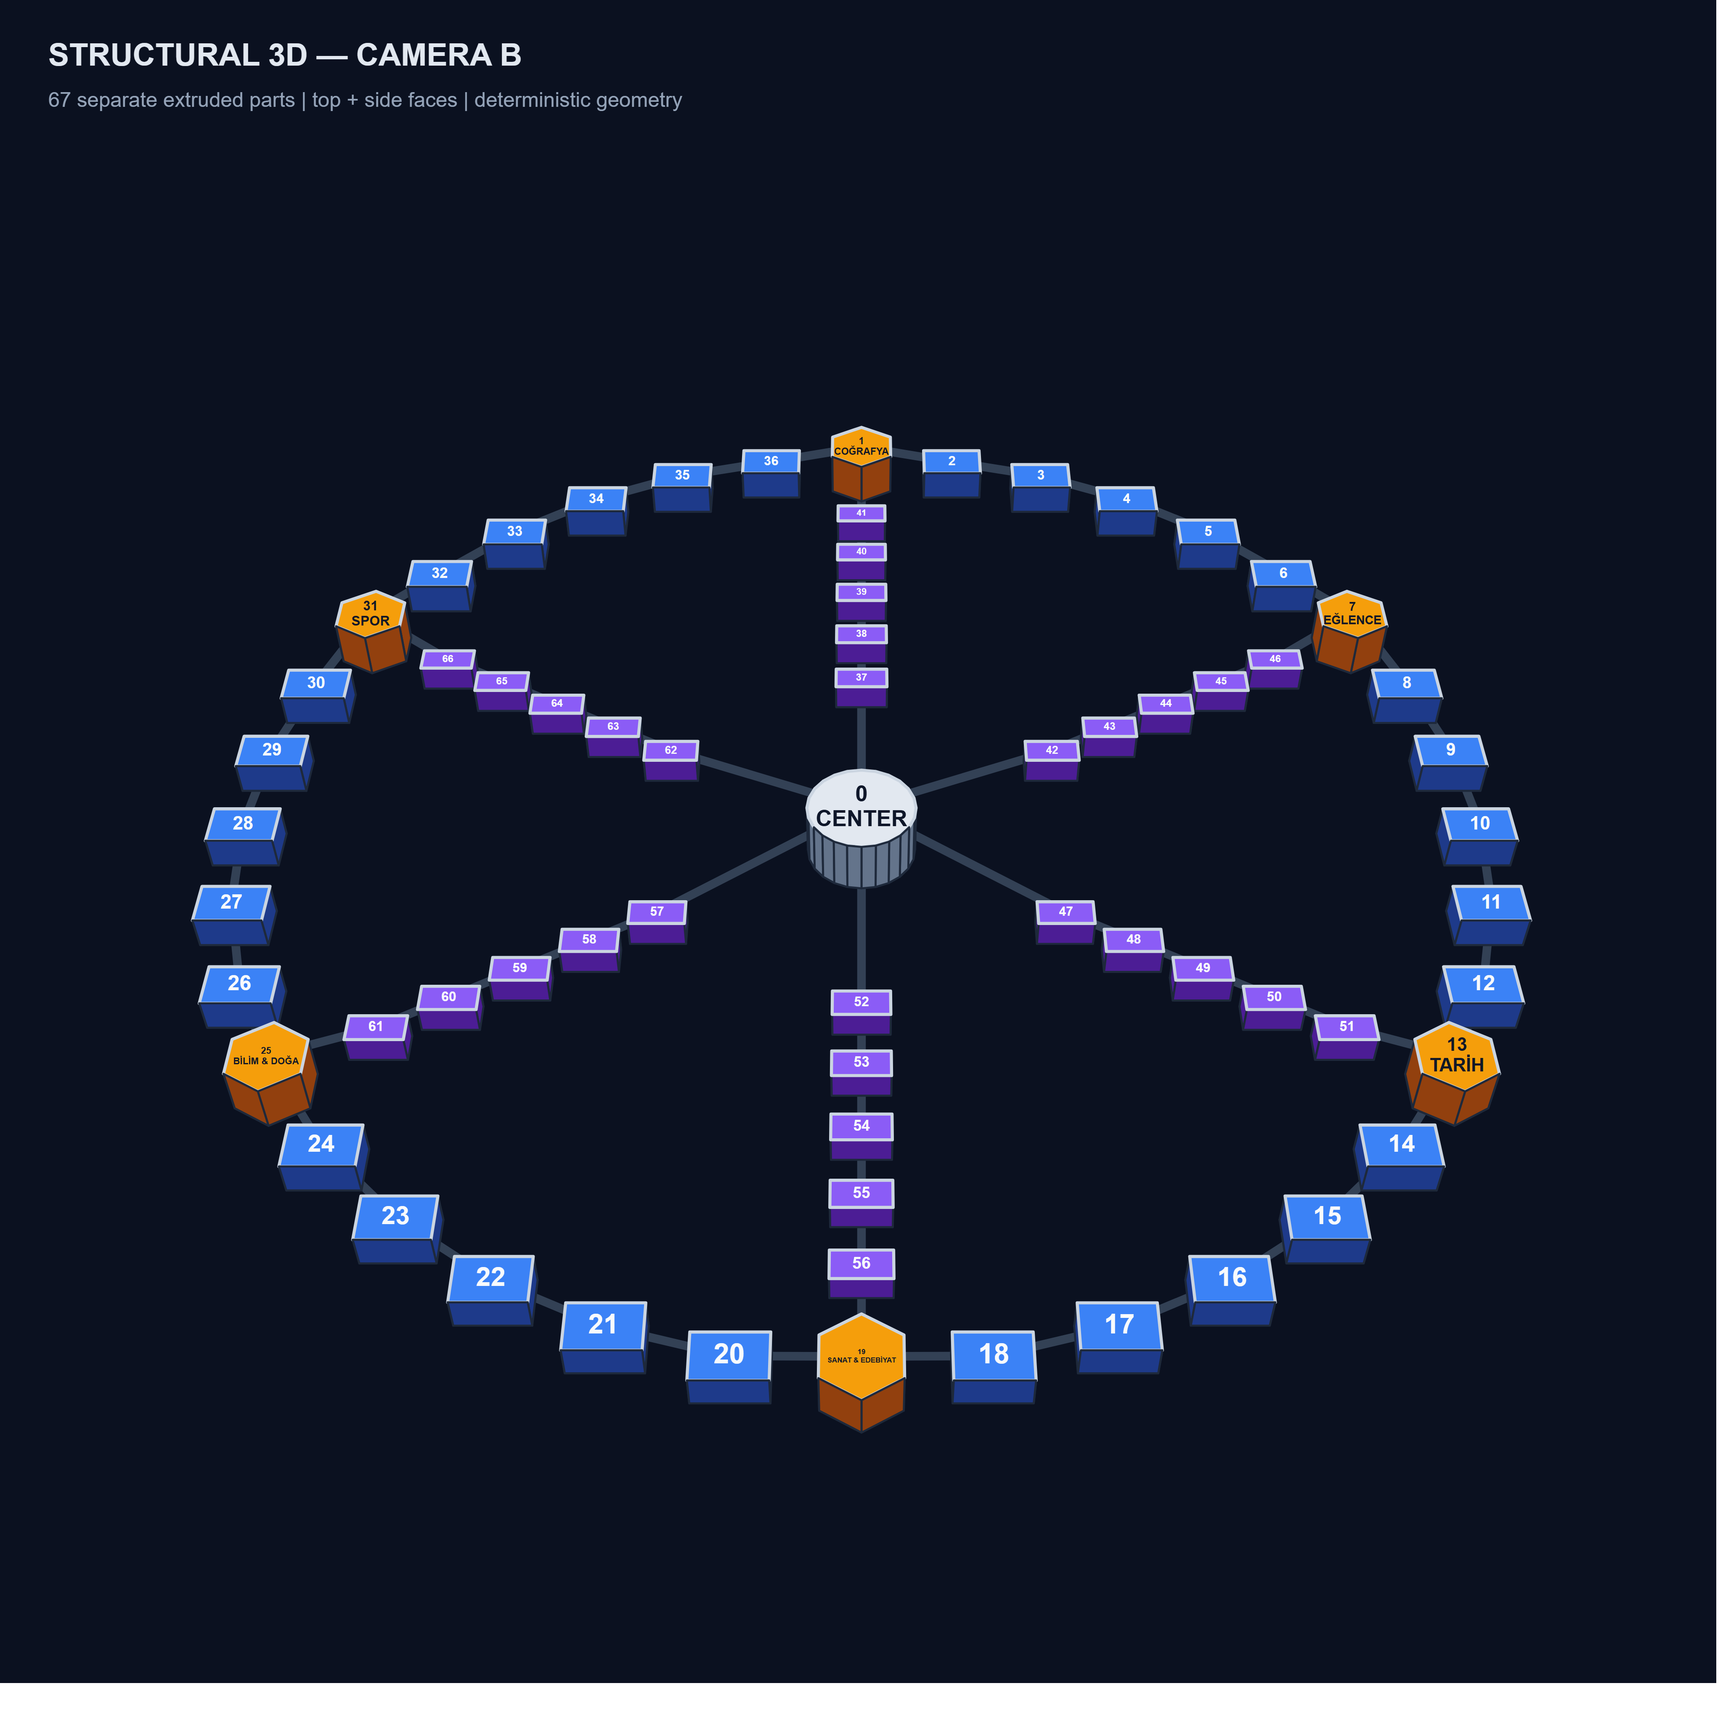
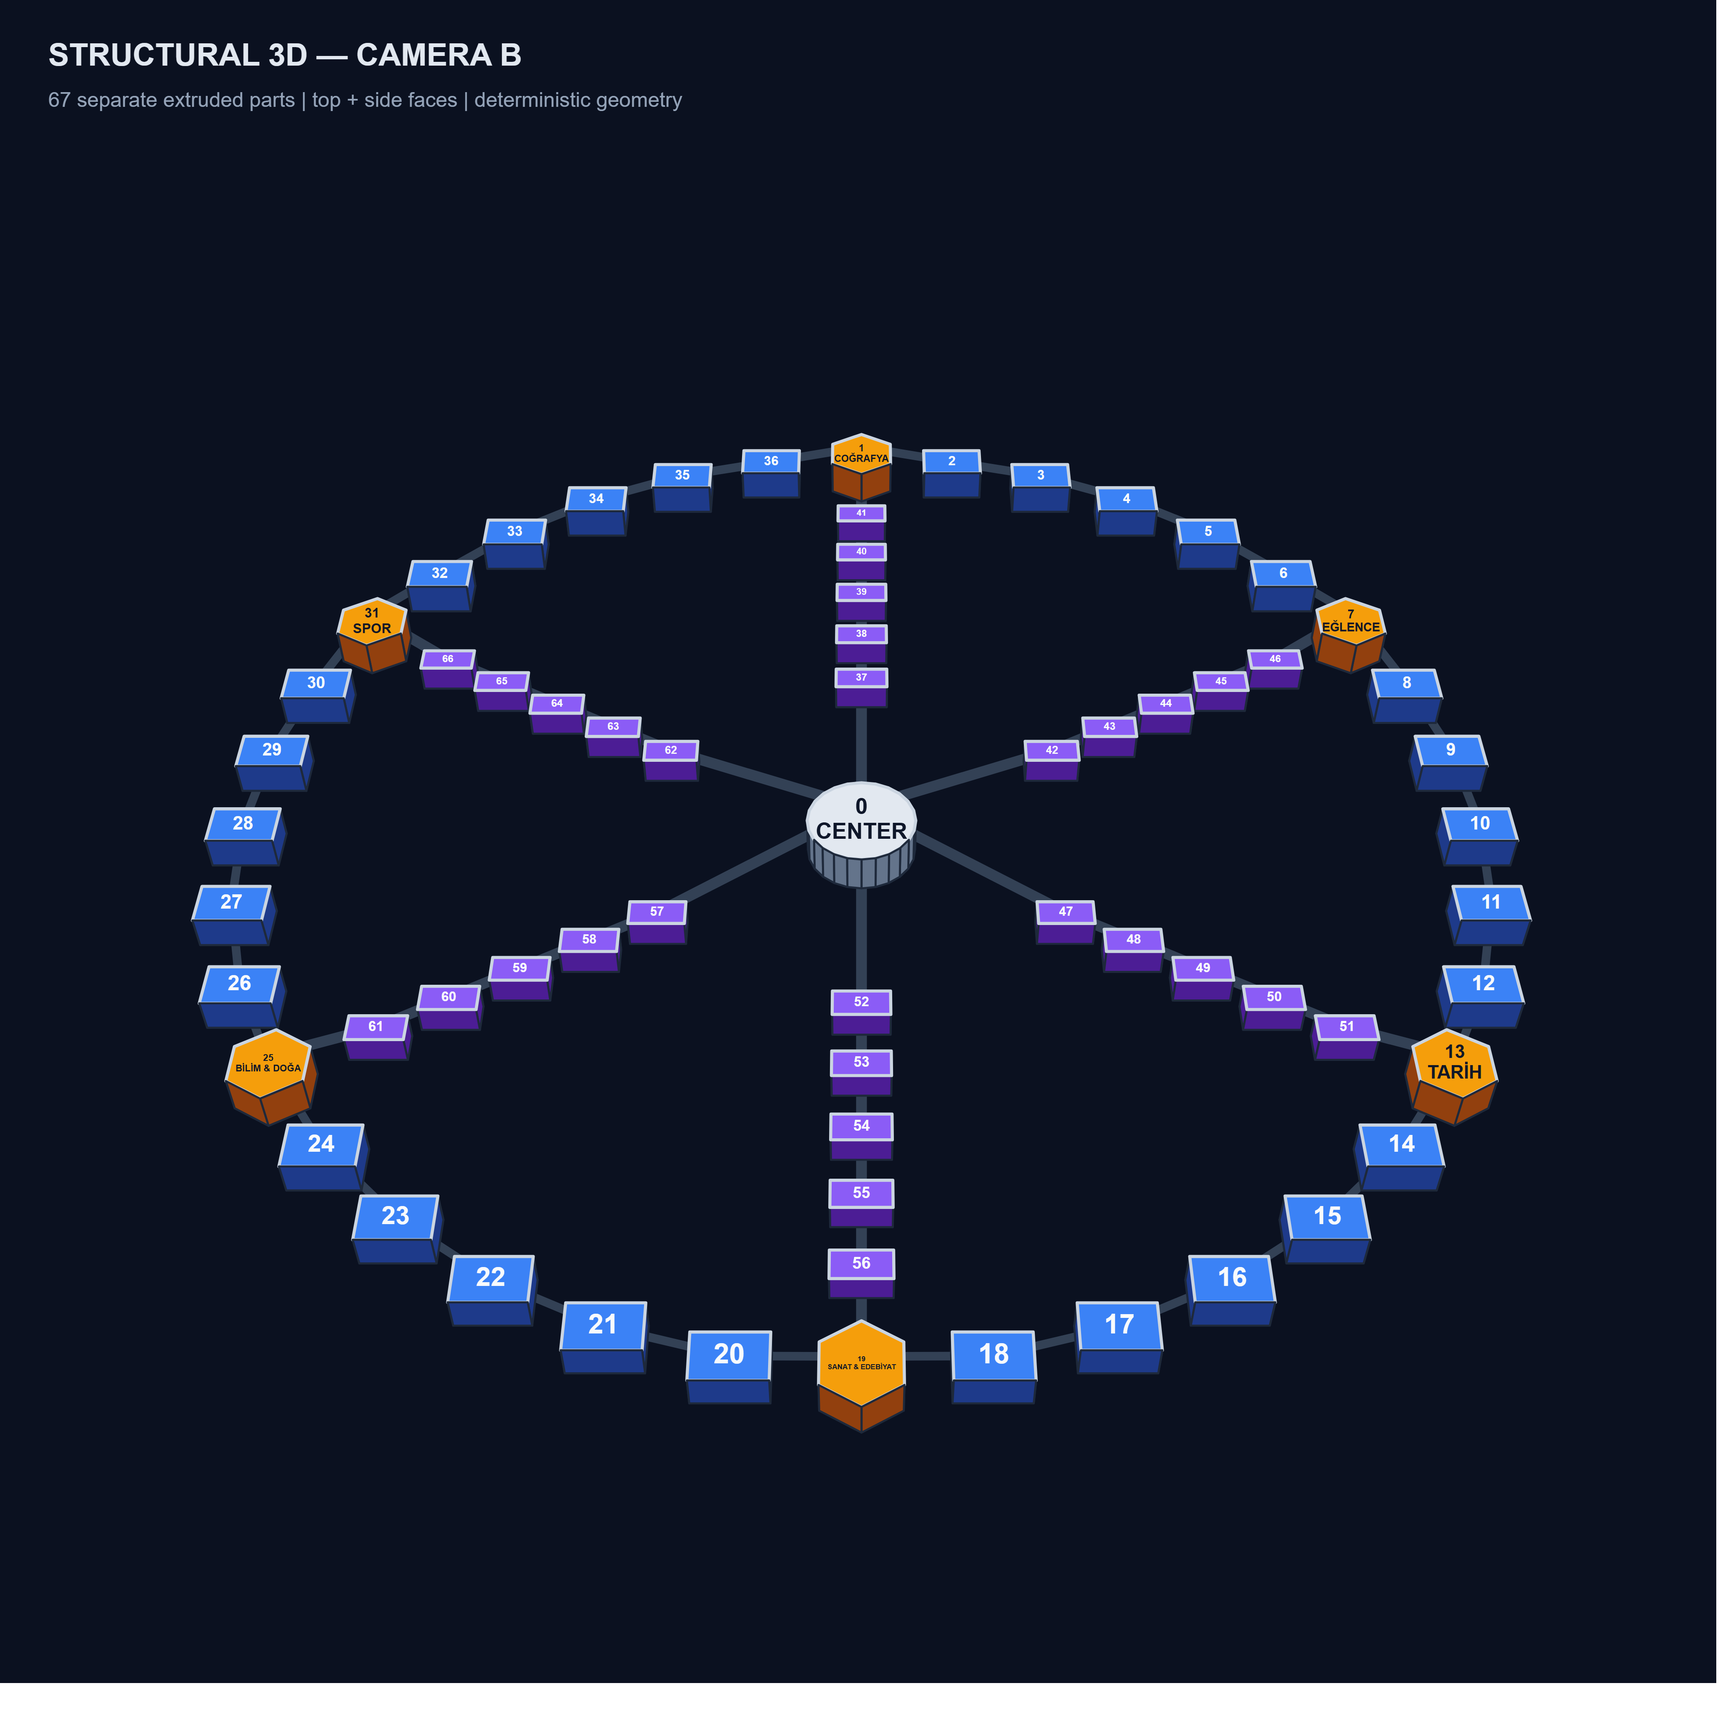
fix: refine structural board proportions

diff --git a/tools/board_renderer/board_3d_structure.py b/tools/board_renderer/board_3d_structure.py
@@ -19,9 +19,16 @@ THICKNESS = {
     "ring_base": 0.012,
     "outer_tile": 0.024,
     "inner_tile": 0.020,
+    "badge": 0.027,
+    "center": 0.028,
+}
+CARRIER_ANCHOR_THICKNESS = {
+    "outer_tile": 0.024,
+    "inner_tile": 0.020,
     "badge": 0.034,
     "center": 0.040,
 }
+CARRIER_STROKE_WIDTH = {"outer_ring": 5.0, "radial": 6.25}
 FOOTPRINT_SCALE = {
     "outer_tile": 0.90,
     "inner_tile": 0.88,
@@ -197,6 +204,49 @@ def build_structural_scene(geometry: dict[str, Any] | None = None) -> dict[str, 
                 "faces": faces,
             }
         )
+    nodes_by_id = {node["id"]: node for node in geometry["nodes"]}
+    carriers = []
+    drawn_edges: set[tuple[int, int]] = set()
+    for node in sorted(geometry["nodes"], key=lambda item: item["id"]):
+        for connected_id in sorted(node["connected_node_ids"]):
+            edge = tuple(sorted((node["id"], connected_id)))
+            if edge in drawn_edges:
+                continue
+            drawn_edges.add(edge)
+            first = nodes_by_id[edge[0]]
+            second = nodes_by_id[edge[1]]
+            kind = (
+                "radial"
+                if {first["type"], second["type"]} & {"center", "inner_tile"}
+                else "outer_ring"
+            )
+
+            def carrier_anchor(item: dict[str, Any]) -> tuple[dict[str, float], float]:
+                anchor_z = base_z + CARRIER_ANCHOR_THICKNESS[item["type"]]
+                return (
+                    projector.project(
+                        (
+                            item["x_normalized"] - 0.5,
+                            item["y_normalized"] - 0.5,
+                            anchor_z,
+                        )
+                    ),
+                    anchor_z,
+                )
+
+            start, start_z = carrier_anchor(first)
+            end, end_z = carrier_anchor(second)
+            carriers.append(
+                {
+                    "node_ids": list(edge),
+                    "kind": kind,
+                    "stroke_width_viewbox_units": CARRIER_STROKE_WIDTH[kind],
+                    "start": start,
+                    "end": end,
+                    "start_z": _round(start_z),
+                    "end_z": _round(end_z),
+                }
+            )
     all_faces.sort(
         key=lambda face: (
             -face["average_depth"],
@@ -216,6 +266,9 @@ def build_structural_scene(geometry: dict[str, Any] | None = None) -> dict[str, 
         "near_far_scale_ratio": _round(far_depth / near_depth),
         "thickness_world_units": THICKNESS.copy(),
         "footprint_scale": FOOTPRINT_SCALE.copy(),
+        "carrier_stroke_width_viewbox_units": CARRIER_STROKE_WIDTH.copy(),
+        "carrier_anchor_thickness_world_units": CARRIER_ANCHOR_THICKNESS.copy(),
+        "carriers": carriers,
         "pieces": pieces,
         "faces_in_occlusion_order": all_faces,
     }
@@ -249,6 +302,18 @@ def validate_structural_scene(scene: dict[str, Any]) -> list[str]:
             count = sum(piece["type"] == node_type and piece["sector"] == sector for piece in pieces)
             if count != 5:
                 errors.append(f"Sector {sector} has {count} {node_type} parts.")
+    carriers = scene["carriers"]
+    if len(carriers) != 72:
+        errors.append(f"Expected 72 carrier edges, found {len(carriers)}.")
+    for kind, expected_count in (("radial", 36), ("outer_ring", 36)):
+        matching = [carrier for carrier in carriers if carrier["kind"] == kind]
+        if len(matching) != expected_count:
+            errors.append(f"Expected {expected_count} {kind} carrier edges, found {len(matching)}.")
+        if any(
+            carrier["stroke_width_viewbox_units"] != CARRIER_STROKE_WIDTH[kind]
+            for carrier in matching
+        ):
+            errors.append(f"Unexpected {kind} carrier width.")
     by_id = {piece["id"]: piece for piece in pieces}
     for expected_ids, name in ((list(range(52, 57)), "south"), (list(range(62, 67)), "sport")):
         if any(node_id not in by_id for node_id in expected_ids):
@@ -273,8 +338,9 @@ def validate_structural_scene(scene: dict[str, Any]) -> list[str]:
             if polygons_overlap(label_polygon, second["top"]):
                 errors.append(f"Node {second['id']} top covers node {first['id']} label.")
                 break
-    if polygons_overlap(by_id[0]["top"], by_id[52]["top"]):
-        errors.append("Center overlaps nearest southern inner tile 52.")
+    for inner_id in (37, 42, 47, 52, 57, 62):
+        if polygons_overlap(by_id[0]["top"], by_id[inner_id]["top"]):
+            errors.append(f"Center overlaps nearest inner tile {inner_id}.")
     for badge_id in (1, 7, 13, 19, 25, 31):
         for adjacent in by_id[badge_id]["connected_node_ids"]:
             if by_id[adjacent]["type"] == "outer_tile" and polygons_overlap(by_id[badge_id]["top"], by_id[adjacent]["top"]):
@@ -297,6 +363,14 @@ def build_structural_report(scene: dict[str, Any] | None = None) -> dict[str, An
         "camera": scene["camera"],
         "near_far_scale_ratio": scene["near_far_scale_ratio"],
         "thickness_world_units": scene["thickness_world_units"],
+        "carrier_stroke_width_viewbox_units": scene[
+            "carrier_stroke_width_viewbox_units"
+        ],
+        "carrier_counts": {
+            kind: sum(carrier["kind"] == kind for carrier in scene["carriers"])
+            for kind in CARRIER_STROKE_WIDTH
+        },
+        "carrier_width_increase_percent": 25,
         "visible_node_count": len(pieces),
         "visible_type_counts": {key: sum(piece["type"] == key for piece in pieces) for key in TYPE_COUNTS},
         "outer_segment_counts": [sum(piece["type"] == "outer_tile" and piece["sector"] == sector for piece in pieces) for sector in range(6)],

diff --git a/tools/board_renderer/tests/test_structural_3d.py b/tools/board_renderer/tests/test_structural_3d.py
@@ -12,6 +12,8 @@ RENDERER_ROOT = Path(__file__).resolve().parents[1]
 sys.path.insert(0, str(RENDERER_ROOT))
 
 from board_3d_structure import (  # noqa: E402
+    CARRIER_ANCHOR_THICKNESS,
+    CARRIER_STROKE_WIDTH,
     EXPECTED_NEAR_FAR_RATIO,
     THICKNESS,
     build_structural_report,
@@ -54,12 +56,62 @@ class Structural3DTest(unittest.TestCase):
         )
 
     def test_every_part_has_top_sides_and_fixed_positive_thickness(self) -> None:
+        self.assertEqual(
+            THICKNESS,
+            {
+                "ring_base": 0.012,
+                "outer_tile": 0.024,
+                "inner_tile": 0.020,
+                "badge": 0.027,
+                "center": 0.028,
+            },
+        )
         self.assertEqual(self.scene["thickness_world_units"], THICKNESS)
         for piece in self.scene["pieces"]:
             self.assertGreater(piece["thickness"], 0)
             self.assertGreater(piece["top_area"], 0)
             self.assertEqual(sum(face["kind"] == "top" for face in piece["faces"]), 1)
             self.assertEqual(sum(face["kind"] == "side" for face in piece["faces"]), len(piece["top"]))
+
+    def test_only_radial_carrier_width_increases_without_moving_anchors(self) -> None:
+        carriers = self.scene["carriers"]
+        radial = [carrier for carrier in carriers if carrier["kind"] == "radial"]
+        outer = [carrier for carrier in carriers if carrier["kind"] == "outer_ring"]
+        self.assertEqual(len(radial), 36)
+        self.assertEqual(len(outer), 36)
+        self.assertTrue(
+            all(
+                carrier["stroke_width_viewbox_units"]
+                == CARRIER_STROKE_WIDTH["radial"]
+                == 6.25
+                for carrier in radial
+            )
+        )
+        self.assertTrue(
+            all(
+                carrier["stroke_width_viewbox_units"]
+                == CARRIER_STROKE_WIDTH["outer_ring"]
+                == 5.0
+                for carrier in outer
+            )
+        )
+        for carrier in carriers:
+            for endpoint, node_id in zip(
+                ("start_z", "end_z"), carrier["node_ids"]
+            ):
+                piece = self.by_id[node_id]
+                self.assertAlmostEqual(
+                    carrier[endpoint],
+                    THICKNESS["ring_base"]
+                    + CARRIER_ANCHOR_THICKNESS[piece["type"]],
+                    places=9,
+                )
+
+    def test_carriers_are_drawn_behind_all_node_faces(self) -> None:
+        svg = render_structural_svg(self.scene)
+        self.assertLess(svg.rfind("<line "), svg.find("<polygon "))
+        self.assertEqual(svg.count('stroke-width="6.25"'), 36)
+        self.assertEqual(svg.count('stroke-width="5.0"'), 36)
 
     def test_every_outer_interval_and_inner_path_has_five_parts(self) -> None:
         report = build_structural_report(self.scene)

diff --git a/tools/board_renderer/render_structural_3d_preview.py b/tools/board_renderer/render_structural_3d_preview.py
@@ -48,15 +48,8 @@ def render_structural_svg(scene: dict[str, Any], closeup: bool = False) -> str:
         '  <rect x="-1000" y="-1000" width="3000" height="3000" fill="#0B1120"/>',
     ]
     by_id = {piece["id"]: piece for piece in scene["pieces"]}
-    drawn_edges: set[tuple[int, int]] = set()
-    for piece in scene["pieces"]:
-        for connected_id in piece["connected_node_ids"]:
-            edge = tuple(sorted((piece["id"], connected_id)))
-            if edge in drawn_edges:
-                continue
-            drawn_edges.add(edge)
-            other = by_id[connected_id]
-            lines.append(f'  <line x1="{_n(piece["center"]["x"])}" y1="{_n(piece["center"]["y"])}" x2="{_n(other["center"]["x"])}" y2="{_n(other["center"]["y"])}" stroke="#334155" stroke-width="5" stroke-linecap="round"/>')
+    for carrier in scene["carriers"]:
+        lines.append(f'  <line x1="{_n(carrier["start"]["x"])}" y1="{_n(carrier["start"]["y"])}" x2="{_n(carrier["end"]["x"])}" y2="{_n(carrier["end"]["y"])}" stroke="#334155" stroke-width="{carrier["stroke_width_viewbox_units"]}" stroke-linecap="round"/>')
     for face in scene["faces_in_occlusion_order"]:
         piece = by_id[face["node_id"]]
         fill = TOP_COLORS[piece["type"]] if face["kind"] == "top" else SIDE_COLORS[piece["type"]]
@@ -94,6 +87,8 @@ def report_markdown(report: dict[str, Any]) -> str:
         f"- Inner path counts: `{report['inner_path_counts']}`",
         f"- South inner path: `{report['south_inner_node_ids']}`",
         f"- Sport inner path: `{report['sport_inner_node_ids']}`",
+        f"- Carrier widths: radial `{report['carrier_stroke_width_viewbox_units']['radial']}` (+`{report['carrier_width_increase_percent']}%`), outer ring `{report['carrier_stroke_width_viewbox_units']['outer_ring']}`",
+        f"- Carrier counts: `{report['carrier_counts']}`",
         "",
         "## Fixed thickness values (world units)",
         "",

diff --git a/docs/project-memory/3B_TAHTA_DURUMU.md b/docs/project-memory/3B_TAHTA_DURUMU.md
@@ -171,13 +171,18 @@ doku, logo, piyon, Flutter veya APK çalışmasına geçilmeyecek.
 - 30 dış taş, 30 iç taş, 6 rozet ve merkez ayrı ayrı üst yüzey, yan yüzler ve
   pozitif kalınlık içeren 67 fiziksel parça olarak üretildi.
 - Sabit dünya birimi kalınlıkları: taşıyıcı taban `0.012`, dış taş `0.024`, iç
-  taş `0.020`, rozet `0.034`, merkez `0.040`.
+  taş `0.020`, rozet `0.027`, merkez `0.028`.
+- Merkez ile rozetler arasındaki 36 radyal taşıyıcı kolun görsel genişliği
+  `5.0` değerinden `6.25` değerine (`%25`) çıkarıldı. Kol merkez çizgileri,
+  uçları, uzunlukları ve yüksekliği; ayrıca 36 dış halka taşıyıcısının `5.0`
+  genişliği değişmedi.
 - Gerçek parça boşlukları korundu; yüzler ortalama kamera derinliğine göre
   uzaktan yakına çizildi ve kimlik etiketleri hiçbir fiziksel yüz tarafından
   kapatılmadı.
 - BoardMap paritesi `67/67`; altı dış aralık ve altı iç yol ayrı ayrı
   `5/5/5/5/5/5` PASS'tir. Güney `52-56` ve Spor `62-66` yolları görünürdür.
-- Merkez en yakın iç taşı, rozetler komşu dış taşları kapatmaz.
+- Merkez `37, 42, 47, 52, 57, 62` iç taşlarını, rozetler komşu dış taşları
+  kapatmaz; taşıyıcı kollar bütün node yüzlerinin arkasında kalır.
 - Ana ve güney yakın plan çıktıları 4096x4096'dır:
   - `tools/board_renderer/output/board_structural_3d_camera_B_4096.png`
   - `tools/board_renderer/output/board_structural_3d_camera_B_closeup_4096.png`

diff --git a/docs/project-memory/BILGI_ROTASI_DURUM.md b/docs/project-memory/BILGI_ROTASI_DURUM.md
@@ -110,7 +110,9 @@ Son canlı kontrollerde:
   1.55 mesafe, 42° dikey FOV ve 1.463752079 yakın/uzak ölçek oranı.
 - AŞAMA 3'te 67 node ayrı üst ve yan yüzleri olan fiziksel parçalar halinde
   yapısal olarak extrude edildi. Sabit kalınlıklar dünya biriminde taşıyıcı
-  taban 0.012, dış 0.024, iç 0.020, rozet 0.034 ve merkez 0.040'tır.
+  taban 0.012, dış 0.024, iç 0.020, rozet 0.027 ve merkez 0.028'dir. Merkez-rozet
+  radyal taşıyıcıları yalnız görsel genişlikte %25 artırıldı; merkez çizgileri,
+  bağlantı noktaları, yükseklikleri ve dış halka taşıyıcıları değişmedi.
 - Ana ve güney yakın plan 4096x4096 çıktılarında tüm 67 kimlik, güney `52-56`,
   Spor `62-66` ve altı iç/dış 5'li yol otomatik doğrulamadan geçti.
 - AŞAMA 3 yalnız yapısal 3B geometridir; final stil/doku, logo, ikon, piyon,

diff --git a/docs/project-memory/KARARLAR.md b/docs/project-memory/KARARLAR.md
@@ -144,7 +144,10 @@
 - Yapısal 3B aşamasında her dış/iç taş, rozet ve merkez ayrı üst ve yan yüzlere
   sahip olacaktır; tek bir 2B raster/tahta eğilmeyecektir.
 - Sabit dünya birimi kalınlıkları taşıyıcı taban `0.012`, dış taş `0.024`, iç
-  taş `0.020`, rozet `0.034` ve merkez `0.040` olarak kabul edilmiştir.
+  taş `0.020`, rozet `0.027` ve merkez `0.028` olarak kabul edilmiştir.
+- Merkez-rozet radyal taşıyıcılarının görsel genişliği `5.0` değerinden `6.25`
+  değerine çıkarılacaktır. Taşıyıcı merkez çizgisi, uçları, uzunluğu ve yüksekliği
+  ile dış halka taşıyıcısının `5.0` genişliği sabit kalacaktır.
 - AŞAMA 3 statik görseli açıkça onaylanmadan final stil/doku, logo, ikon, piyon,
   Flutter veya APK aşamasına geçilmeyecektir.
 

diff --git a/docs/project-memory/GOREV_HAVUZU.md b/docs/project-memory/GOREV_HAVUZU.md
@@ -125,7 +125,10 @@ Kamera B sabitleriyle 30 dış, 30 iç, 6 rozet ve merkez ayrı üst/yan yüzler
 sahip 67 parça olarak üretildi. BoardMap paritesi 67/67, altı dış ve altı iç yol
 5/5/5/5/5/5, güney `52-56`, Spor `62-66`, etiket/merkez/rozet boşlukları ve
 uzaktan yakına örtüşme sırası PASS'tir. Ana ve güney yakın plan 4096x4096
-çıktıları hazırdır. Statik görsel onayı olmadan final stil, Flutter veya APK yok.
+çıktıları hazırdır. Rozet/merkez kalınlıkları `0.027`/`0.028` olarak düzeltildi;
+36 radyal taşıyıcı yalnız görsel genişlikte `%25` artırılırken dış halka ve bütün
+bağlantı geometrisi korundu. Statik görsel onayı olmadan final stil, Flutter veya
+APK yok.
 
 ### BR-P2-003 - Profesyonel tanıtım videosu
 

diff --git a/tools/board_renderer/output/board_structural_3d_report.md b/tools/board_renderer/output/board_structural_3d_report.md
@@ -8,13 +8,15 @@
 - Inner path counts: `[5, 5, 5, 5, 5, 5]`
 - South inner path: `[52, 53, 54, 55, 56]`
 - Sport inner path: `[62, 63, 64, 65, 66]`
+- Carrier widths: radial `6.25` (+`25%`), outer ring `5.0`
+- Carrier counts: `{'outer_ring': 36, 'radial': 36}`
 
 ## Fixed thickness values (world units)
 
 - Ring/base: `0.012`
 - Outer tile: `0.024`
 - Inner tile: `0.02`
-- Badge: `0.034`
-- Center: `0.04`
+- Badge: `0.027`
+- Center: `0.028`
 
 This is structural geometry only; it contains no final texture, logo, icons, pawns, glow, premium paint, Flutter integration, or APK work.
